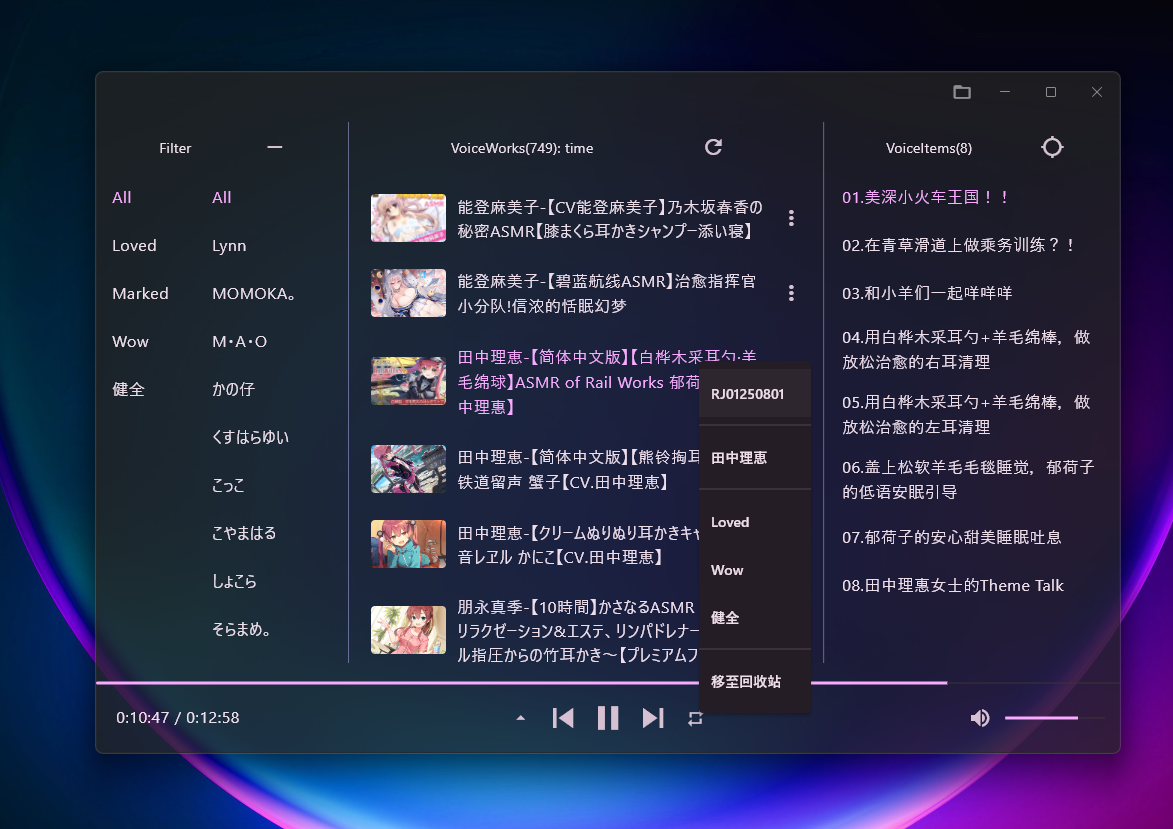
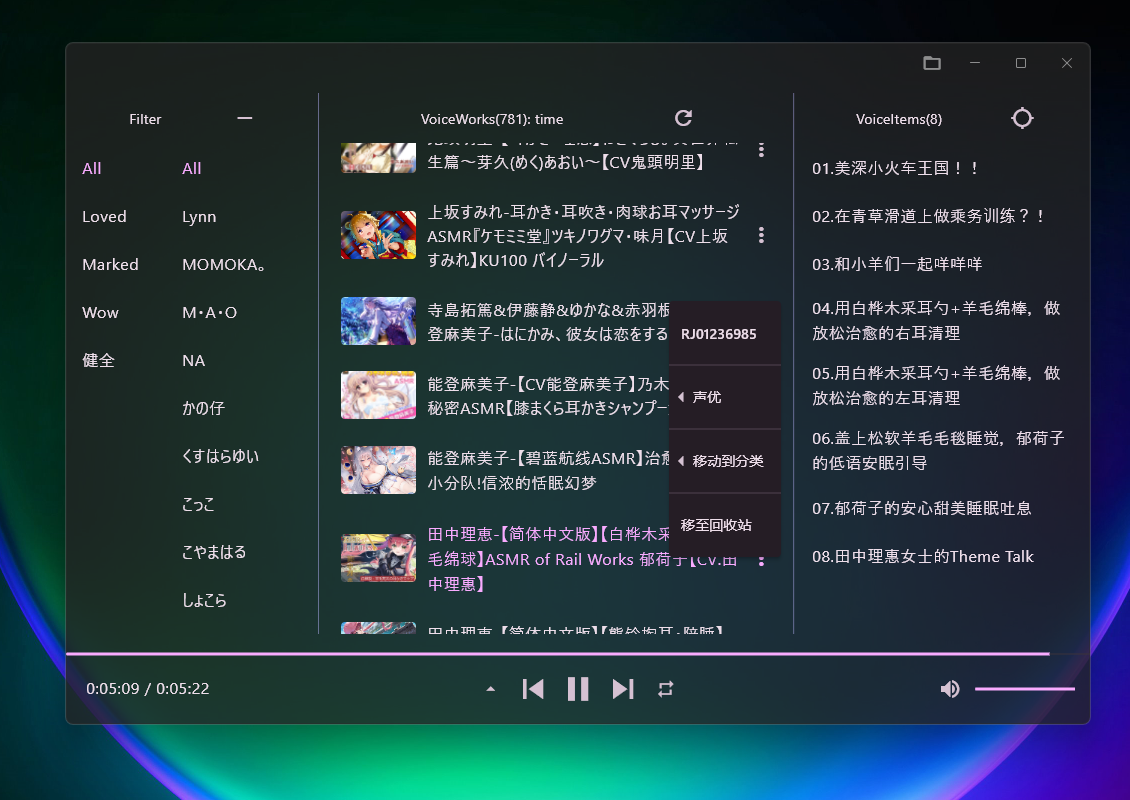
UI: 音声文件夹增加声优和类别二级菜单

diff --git a/lib/pages/lists/voice_work_panel/vk_menu_btn.dart b/lib/pages/lists/voice_work_panel/vk_menu_btn.dart
@@ -1,6 +1,6 @@
+import 'package:again/pages/components/popup_menu_on_pressed.dart';
 import 'package:again/services/ui/ui_providers.dart';
 import 'package:again/services/ui/move_voice_work.dart';
-import 'package:again/pages/components/popup_menu_on_pressed.dart';
 import 'package:again/services/database/voice_updater.dart';
 import 'package:again/models/voice_work.dart';
 import 'package:flutter/material.dart';
@@ -16,51 +16,65 @@ class VkMenuBtn extends ConsumerWidget {
 
   @override
   Widget build(BuildContext context, WidgetRef ref) {
-    return Builder(
-      builder: (BuildContext buttonContext) {
-        return IconButton(
-          icon: const Icon(Icons.more_vert),
-          onPressed: () async {
-            List<String> cvList = VoiceUpdater.getCvList(voiceWork.title);
+    return IconButton(
+        onPressed: () {
+          final items = <PopupMenuEntry<String>>[
+            PopupMenuItem<String>(
+              value: 'copyRj',
+              child: Text(voiceWork.rj),
+            ),
+            const PopupMenuDivider(),
+            PopupMenuItem(
+              padding: EdgeInsets.all(0),
+              child: Row(children: [
+                Icon(Icons.arrow_left_sharp),
+                Expanded(child: Text('声优', locale: Locale('zh', 'CN')))
+              ]),
+              onTap: () {
+                showPopupMenuOnPressed(
+                  ref,
+                  context,
+                  VoiceUpdater.getCvList(voiceWork.title)
+                      .map((cvName) => PopupMenuItem<String>(
+                          value: cvName, child: Text(cvName)))
+                      .toList(),
+                  _selectCv,
+                );
+              },
+            ),
+            const PopupMenuDivider(),
+            PopupMenuItem(
+              padding: EdgeInsets.all(0),
+              child: Row(children: [
+                Icon(Icons.arrow_left_sharp),
+                Expanded(child: Text('移动到分类', locale: Locale('zh', 'CN')))
+              ]),
+              onTap: () {
+                showPopupMenuOnPressed(
+                  ref,
+                  context,
+                  ref
+                      .read(categoryProvider)
+                      .values
+                      .where(
+                          (cate) => cate != 'All' && cate != voiceWork.category)
+                      .map((cate) =>
+                          PopupMenuItem<String>(value: cate, child: Text(cate)))
+                      .toList(),
+                  (context, value) => changeCategory(ref, voiceWork, value),
+                );
+              },
+            ),
+            const PopupMenuDivider(),
+            const PopupMenuItem<String>(
+              value: 'delete',
+              child: Text('移至回收站', locale: Locale('zh', 'CN')),
+            ),
+          ];
 
-            final items = <PopupMenuEntry<String>>[
-              PopupMenuItem<String>(
-                value: 'copyRj',
-                child: Text(voiceWork.rj),
-              ),
-              const PopupMenuDivider(),
-              ...cvList.map((cvName) => PopupMenuItem<String>(
-                    value: cvName,
-                    child: Text(cvName),
-                  )),
-              const PopupMenuDivider(),
-              ...ref
-                  .read(categoryProvider)
-                  .values
-                  .where((cate) => cate != 'All' && cate != voiceWork.category)
-                  .map((cate) => PopupMenuItem<String>(
-                        value: cate,
-                        child: Text(cate),
-                      )),
-              const PopupMenuDivider(),
-              const PopupMenuItem<String>(
-                value: 'delete',
-                child: Text('移至回收站'),
-              ),
-            ];
-
-            if (buttonContext.mounted) {
-              showPopupMenuOnPressed(
-                buttonContext,
-                ref,
-                items,
-                _onPopMenuSelected,
-              );
-            }
-          },
-        );
-      },
-    );
+          showPopupMenuOnPressed(ref, context, items, _onPopMenuSelected);
+        },
+        icon: Icon(Icons.more_vert));
   }
 
   void _onPopMenuSelected(WidgetRef ref, String value) {
@@ -71,10 +85,6 @@ class VkMenuBtn extends ConsumerWidget {
       }
     } else if (value == 'delete') {
       deleteVoiceWork(ref, voiceWork);
-    } else if (ref.read(cvProvider).values.contains(value)) {
-      _selectCv(ref, value);
-    } else if (ref.read(categoryProvider).values.contains(value)) {
-      changeCategory(ref, voiceWork, value);
     }
   }
 

diff --git a/lib/pages/components/popup_menu_on_pressed.dart b/lib/pages/components/popup_menu_on_pressed.dart
@@ -1,11 +1,11 @@
 import 'package:flutter/material.dart';
 import 'package:flutter_riverpod/flutter_riverpod.dart';
 
-void showPopupMenuOnPressed(
-  BuildContext buttonContext,
+void showPopupMenuOnPressed<T>(
   WidgetRef ref,
-  List<PopupMenuEntry<String>> items,
-  void Function(WidgetRef, String) onPopMenuSelected,
+  BuildContext buttonContext,
+  List<PopupMenuEntry<T>> items,
+  void Function(WidgetRef, T) onPopMenuSelected,
 ) {
   final RenderBox button = buttonContext.findRenderObject() as RenderBox;
   final RenderBox overlay =
@@ -20,7 +20,7 @@ void showPopupMenuOnPressed(
   double left = buttonOffset.dx + buttonSize.width;
   double top = buttonOffset.dy;
 
-  showMenu<String>(
+  showMenu<T>(
     context: buttonContext,
     position: RelativeRect.fromLTRB(
       left,

diff --git a/lib/pages/my_app.dart b/lib/pages/my_app.dart
@@ -14,11 +14,12 @@ class MyApp extends StatelessWidget {
       child: MaterialApp(
           debugShowCheckedModeBanner: false,
           theme: ThemeData(
-              colorScheme: ColorScheme.fromSeed(
-            seedColor: Colors.purple,
-            dynamicSchemeVariant: DynamicSchemeVariant.fidelity,
-            brightness: Brightness.dark,
-          )),
+            colorScheme: ColorScheme.fromSeed(
+              seedColor: Colors.purple,
+              dynamicSchemeVariant: DynamicSchemeVariant.fidelity,
+              brightness: Brightness.dark,
+            ),
+          ),
           scrollBehavior: MyCustomScrollBehavior(),
           home: const Scaffold(
               backgroundColor: Colors.transparent,
